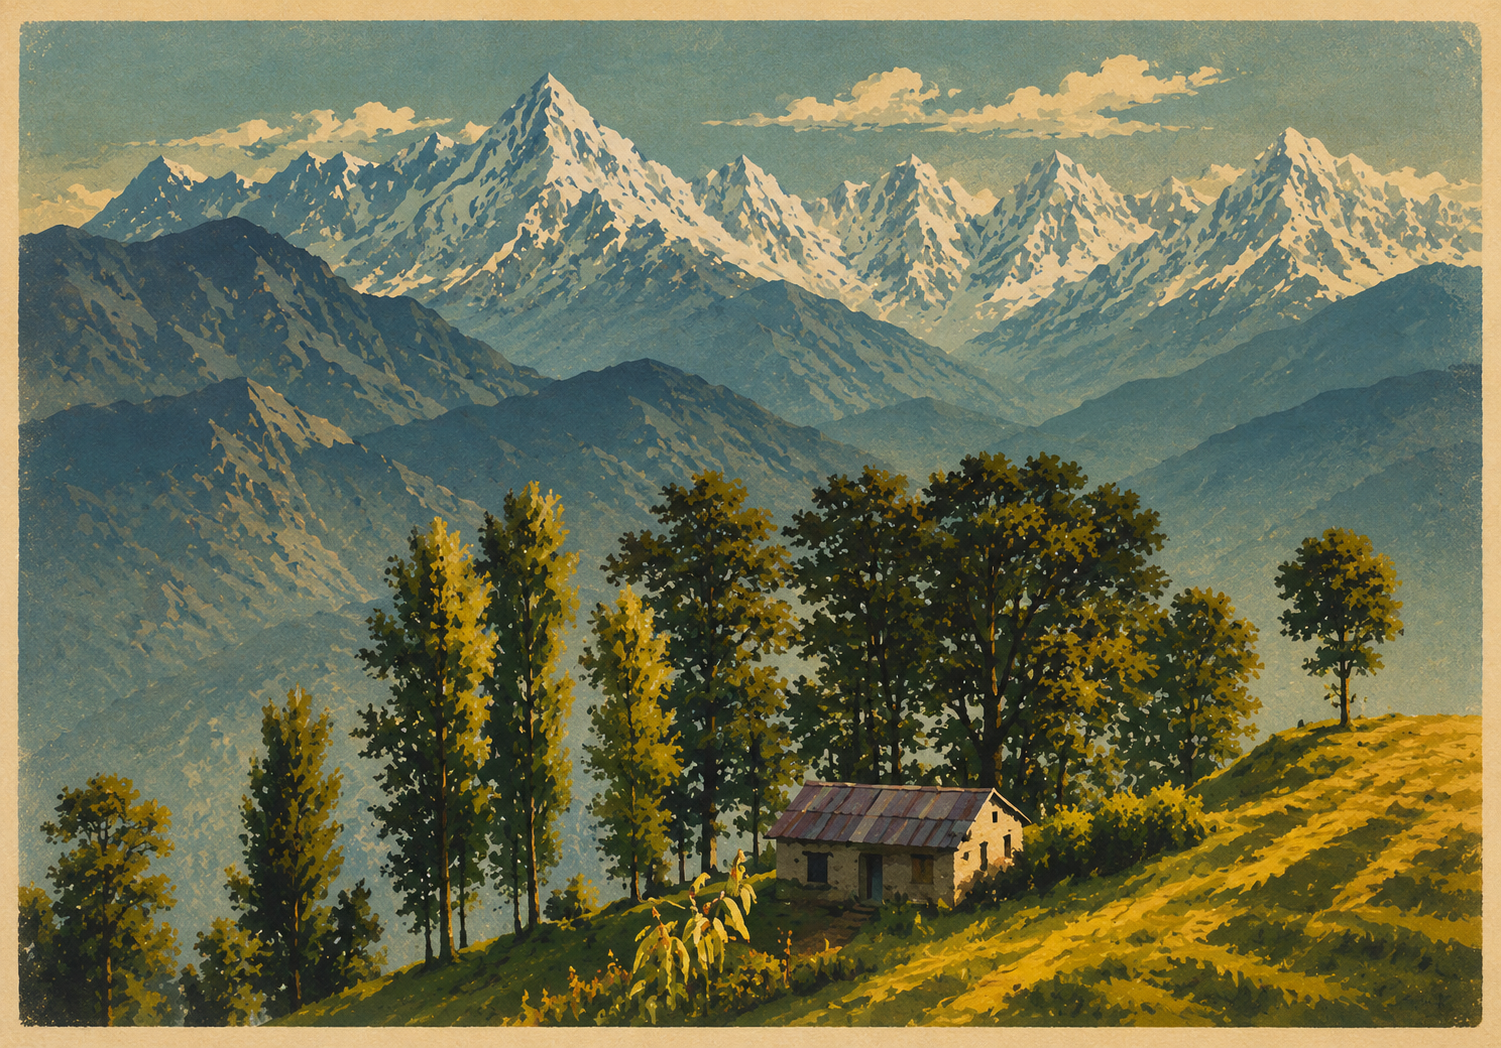
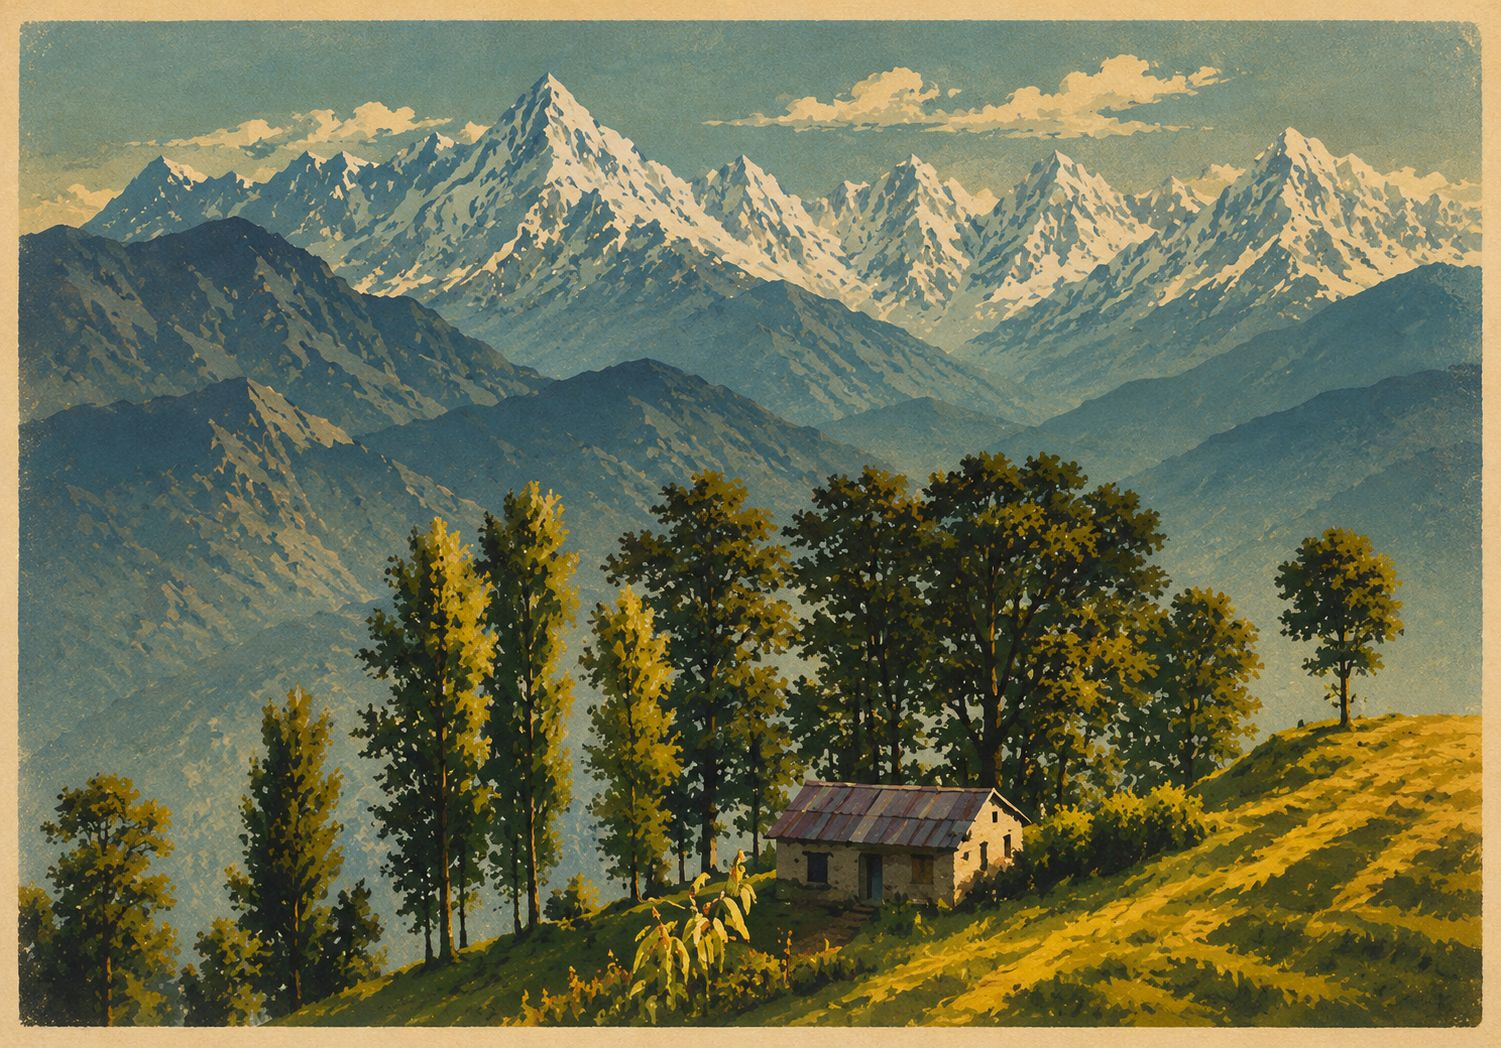
Wire in the four posters, rename to Pahadi Safar, shrink images 8x
The owner uploaded the poster images (thank you) plus a fourth,
bg-house.jpg - a stone house on a golden hillside - now in the
rotation and the theme picker (6 swatches: slideshow, four views,
drawn hills). Each JPEG recompressed from ~2.8MB to ~330KB at the
same dimensions, 11.4MB -> 1.4MB total, so phones load the site fast.

The README's rename to Pahadi Safar (pahadi safar) is carried through
the page title, Open Graph tags, the intro screen and CLAUDE.md.

Claude-Session: https://claude.ai/code/session_01AEwaYvxSCJvowddurYPTEj

diff --git a/index.html b/index.html
@@ -4,13 +4,13 @@
 <meta charset="utf-8" />
 <meta name="viewport" content="width=device-width, initial-scale=1, viewport-fit=cover" />
 
-<title>Pahadi Drive — पहाड़ी ड्राइव</title>
-<meta name="description" content="A drive through the hills of Uttarakhand, with Garhwali and Kumaoni music. Open it when you miss home." />
+<title>Pahadi Safar — पहाड़ी सफ़र</title>
+<meta name="description" content="A journey through the hills of Uttarakhand, with Garhwali and Kumaoni music. Open it when you miss home." />
 <meta name="theme-color" content="#e9dcbc" />
 
 <meta property="og:type" content="website" />
-<meta property="og:title" content="Pahadi Drive — पहाड़ी ड्राइव" />
-<meta property="og:description" content="A drive through the hills of Uttarakhand, with Garhwali and Kumaoni music." />
+<meta property="og:title" content="Pahadi Safar — पहाड़ी सफ़र" />
+<meta property="og:description" content="A journey through the hills of Uttarakhand, with Garhwali and Kumaoni music." />
 <meta property="og:image" content="/og.png" />
 <meta name="twitter:card" content="summary_large_image" />
 
@@ -1143,7 +1143,7 @@ body.has-photos .tagline { text-shadow: 0 1px 8px rgba(250,244,226,0.9); }
      ============================================================ -->
 <div class="intro" id="intro">
   <div class="intro-inner">
-    <p class="intro-hi">पहाड़ी ड्राइव</p>
+    <p class="intro-hi">पहाड़ी सफ़र</p>
     <p class="intro-sub">Roll the window down.</p>
     <button class="begin" id="begin">Begin the drive</button>
   </div>
@@ -1297,6 +1297,7 @@ setInterval(updateOnline, 4200);
 // tint — the little swatch colour in the top-right picker.
 const PHOTOS = [
   { file: 'bg-flowers.jpg', label: 'Valley of flowers', tint: '#b0402a' },
+  { file: 'bg-house.jpg',   label: 'House in the hills', tint: '#a5854e' },
   { file: 'bg-lake.jpg',    label: 'Nainital lake',     tint: '#4e8d84' },
   { file: 'bg-road.jpg',    label: 'Hill road',         tint: '#8a9a6b' },
 ];

diff --git a/CLAUDE.md b/CLAUDE.md
@@ -1,4 +1,4 @@
-# CLAUDE.md — Pahadi Drive (पहाड़ी ड्राइव)
+# CLAUDE.md — Pahadi Safar (पहाड़ी सफ़र) — formerly Pahadi Drive
 
 This file gives you full context for this project. Read it before making any changes.
 
